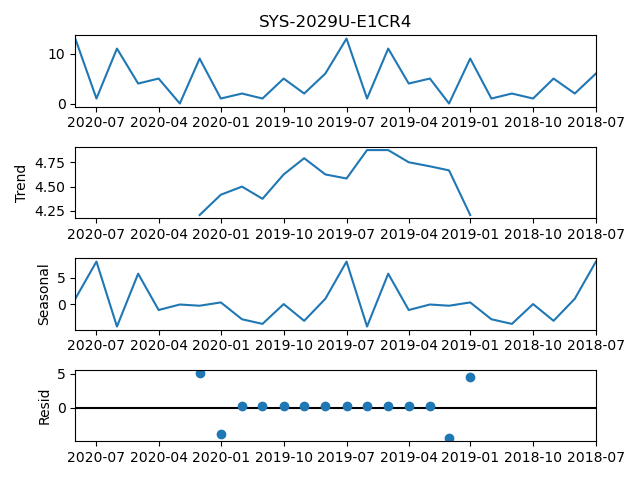
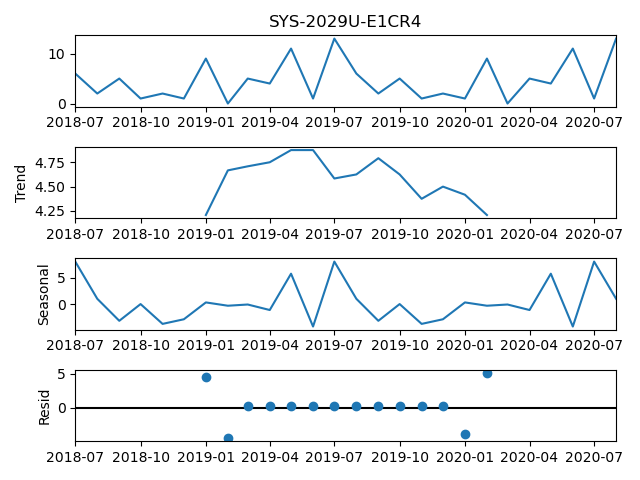
updated script
SARIMA and ETS decomp time series analysis

diff --git a/script.py b/script.py
@@ -6,6 +6,7 @@ from statsmodels.tsa.seasonal import seasonal_decompose
 from pmdarima import auto_arima as AA
 import warnings
 import os
+from statsmodels.tsa.statespace.sarimax import SARIMAX
 
 # suppress harmless deprecation warnings
 warnings.filterwarnings("ignore")
@@ -14,6 +15,10 @@ warnings.filterwarnings("ignore")
 system_forecasts = pd.read_csv('datasets/systems_copied.csv', parse_dates=True, index_col=0)
 print(system_forecasts.head())
 print(system_forecasts.columns)
+
+transposed = system_forecasts.transpose()
+print(transposed)
+print(transposed.index.dtype)
 
 # pipelining dataset- transforming for analysis
 dimensions=system_forecasts.shape   # dimensiom of dataframe: 10 rows x 13 columns
@@ -57,24 +62,70 @@ def get_ETS_visuals():
         plt.savefig(os.path.join(my_path, my_file))
         plt.clf()
     
-#get_ETS_visuals()
+get_ETS_visuals()
 
 
-# call AA to identify optional params and return fitted model
-stepwise_fit1 = AA(transformed_system_forecasts[indices[0]], start_p=1, start_q=1,
-                  max_p=3, max_q=3, m=12,
-                  start_P=0, seasonal=True,
-                  d=None, D=1, trace=True,
-                  error_action='ignore',
-                  suppress_warnings=True,
-                  stepwise=True)
-
-print(stepwise_fit1.summary())
+#print(stepwise_fit.summary())
 #print(stepwise_fit1.df_model())
-print(stepwise_fit1.get_params())
+#print(stepwise_fit.get_params())
+
+print(indices)
 
 # splits data into training and test datasets, and outputs forecast values
 def train_test_predict():
+    for i in range(len(indices)):
+
+        print(f'-------------------Now analyzing {indices[i]} -------------------')
+        # call AA to identify optional params and return fitted model
+        stepwise_fit = AA(transformed_system_forecasts[indices[i]], start_p=1, start_q=1,
+                          max_p=3, max_q=3, m=12,
+                          start_P=0, seasonal=True,
+                          d=None, D=1, trace=True,
+                          error_action='ignore',
+                          suppress_warnings=True,
+                          stepwise=True)
+
+        # splitting training and testing datasets (1 full year for testing)
+        # train = transformed_system_forecasts[indices[i]].iloc[:len(transformed_system_forecasts)-12]
+        # test = transformed_system_forecasts[indices[i]].iloc[len(transformed_system_forecasts)-12:,i]
+        train = transformed_system_forecasts.iloc[[0,12],[i,i]]  # selecting all but first 12 elements from ith column (time reversed)
+        #test = transformed_system_forecasts.iloc[len(12:0:,i]
+        #print(transformed_system_forecasts[indices[i]])
+        print(train)
+        #print(train[::-1])
+        #print(test[::-1])
+        #print(train.iloc[:,0].values)
+        #try:
+
+        model = SARIMAX(train,
+                        order = stepwise_fit.get_params()['order'],
+                        seasonal_order = stepwise_fit.get_params()['seasonal_order'])
+
+        result = model.fit()
+        result.summary()
+'''
+        start = len(train)
+        end = len(train) + len(test) - 1
+
+        # Predictions for one-year against the test set
+        predictions = result.predict(start, end, typ='levels').rename("Predictions")
+
+        # graphing actual vs predicted values
+        predictions.plot(legend=True)
+        test[indices[i]].plot(legend=True)
+        plt.show()
+'''
+        #except:
+        #    print(f'Analysis for {indices[i]} failed.. skipping')
+
+
+
+#print(train_test_predict())
+
+#print(transformed_system_forecasts[indices[0 ]].\
+#      iloc[:len(transformed_system_forecasts)-12])
+#print(transformed_system_forecasts[indices[0 ]].\
+#      iloc[len(transformed_system_forecasts)-12:])
 
 '''
 stepwise_fit2 = AA(transformed_system_forecasts[indices[0]], seasonal=True,
@@ -87,5 +138,5 @@ print(stepwise_fit2.summary())
 '''
 
 # splitting data into training and testing sets
-train = transformed_system_forecasts
+
 #SARIMAX(1, 0, 0)x(0, 1, 0, 12)

diff --git a/script2.py b/script2.py
@@ -1,0 +1,111 @@
+# importing dependencies
+import pandas as pd
+import numpy as np
+import matplotlib.pyplot as plt
+from statsmodels.tsa.seasonal import seasonal_decompose
+from pmdarima import auto_arima as AA
+import warnings
+import os
+from statsmodels.tsa.statespace.sarimax import SARIMAX
+
+# suppress harmless deprecation warnings
+warnings.filterwarnings("ignore")
+
+# importing dataset
+system_forecasts = pd.read_csv('datasets/systems_copied.csv', parse_dates=True, index_col=0)
+print(system_forecasts.head())
+print(system_forecasts.columns)
+
+transposed = system_forecasts.transpose()
+
+
+transposed.index = pd.to_datetime([value.replace('US','') for value in transposed.index.values])
+print(transposed.index.dtype)
+
+
+reversed_transposed = transposed.iloc[::-1]
+print(reversed_transposed)
+
+def rename_columns():
+    new_cols = {}
+    orig_column_names = reversed_transposed.columns.tolist()
+    new_column_names = [sku.replace(' ','') for sku in orig_column_names]
+    for i in range(len(orig_column_names)):
+        new_cols[orig_column_names[i]] = new_column_names[i]
+    return new_cols
+
+cleaned_transposed = reversed_transposed.rename(columns=rename_columns())
+print(cleaned_transposed)
+
+
+header_row = cleaned_transposed.columns.tolist()
+# visualizes separate components of a time series (Error, Trend, Seasonality, Residuals)
+def get_ETS_visuals():
+    curr_dir = os.getcwd()
+    my_path = curr_dir + '/ETS_decomp_visuals'
+    print(my_path)
+    for i in range(len(header_row)):
+        ETS_decomp = seasonal_decompose(cleaned_transposed[header_row[i]], model='additive')
+        ETS_decomp.plot()
+        my_file = (f'{header_row[i]}_ETS_decomp_visualization.png')  # naming visualization
+        plt.savefig(os.path.join(my_path, my_file))
+        plt.clf()
+
+#get_ETS_visuals()
+
+
+DataFrameDict = {sku: pd.DataFrame for sku in header_row}
+for key in DataFrameDict.keys():
+    DataFrameDict[key] = cleaned_transposed[key]
+
+print(DataFrameDict['AS-1114S-WN10RT'])
+
+# splits data into training and test datasets, and outputs forecast values
+def train_test_predict():
+    for header in header_row:
+
+        print(f'-------------------Now analyzing {header} -------------------')
+        # call AA to identify optional params and return fitted model
+        df = DataFrameDict[header]
+        stepwise_fit = AA(df, start_p=1, start_q=1,
+                          max_p=3, max_q=3, m=12,
+                          start_P=0, seasonal=True,
+                          d=None, D=1, trace=True,
+                          error_action='ignore',
+                          suppress_warnings=True,
+                          stepwise=True)
+        print(stepwise_fit.get_params()['seasonal_order'])
+        # Split data into train / test sets
+        train = df.iloc[:len(df) - 12]
+        test = df.iloc[len(df) - 12:]  # set one year(12 months) for testing
+
+
+        try:
+            model = SARIMAX(train,
+                            order=stepwise_fit.get_params()['order'],
+                            seasonal_order=stepwise_fit.get_params()['seasonal_order'])
+
+            result = model.fit()
+            #result.summary()
+
+            start = len(train)
+            end = len(train) + len(test) - 1
+
+            # Predictions for one-year against the test set
+            predictions = result.predict(start, end, typ='levels').rename("Predictions")
+
+            # graphing actual vs predicted values
+            predictions.plot(legend=True)
+            test.plot(legend=True)
+            plt.show()
+            plt.clf()
+
+        except NameError:
+            print(f'Non-positive-definite forecast error encountered... skipping')
+            pass
+        except:
+            print(f'Analysis for {header} failed.. skipping')
+            pass
+
+
+print(train_test_predict())
